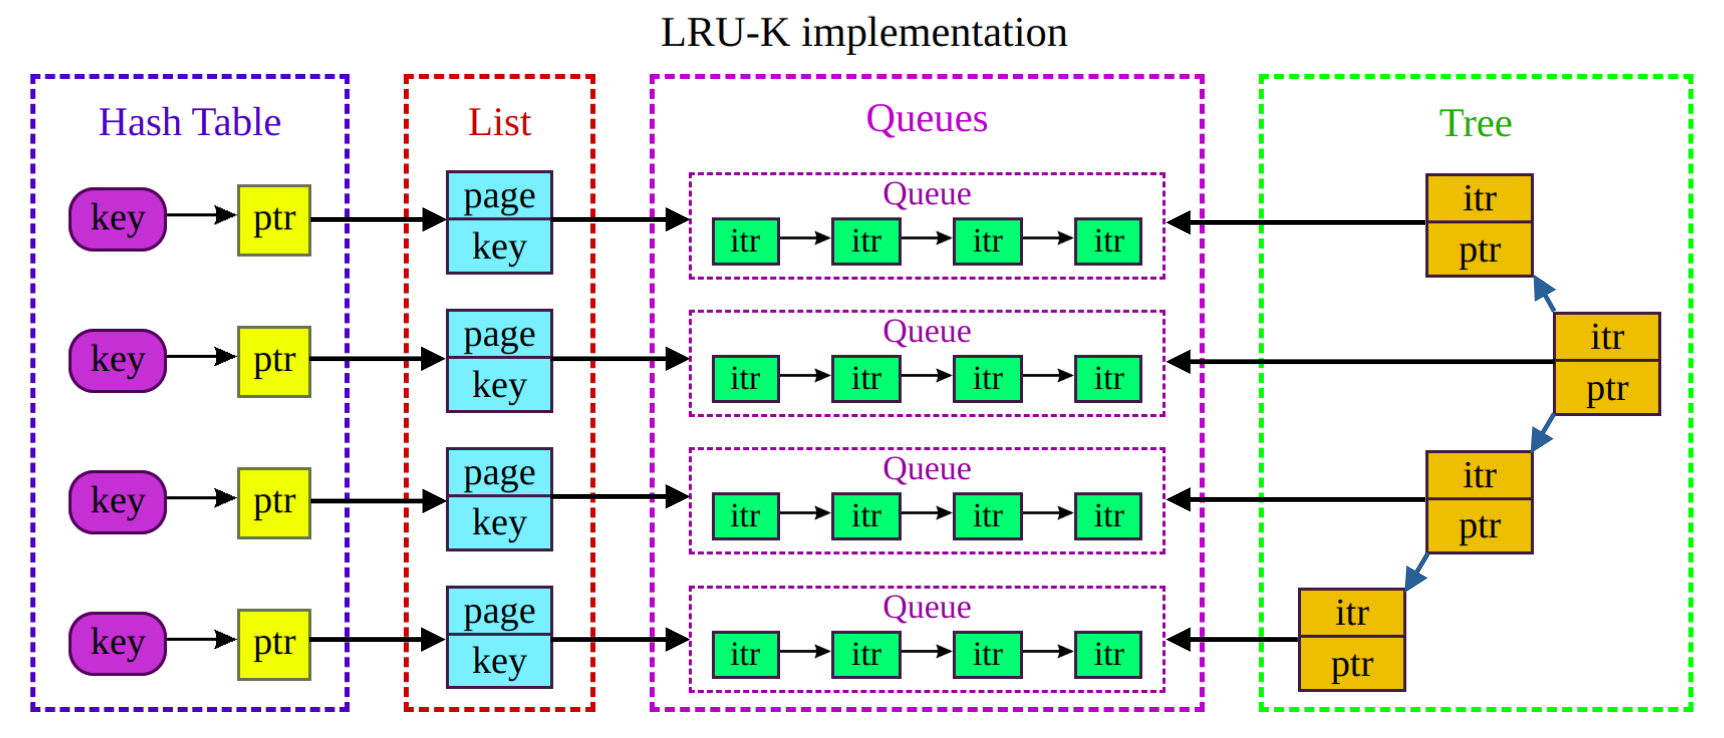
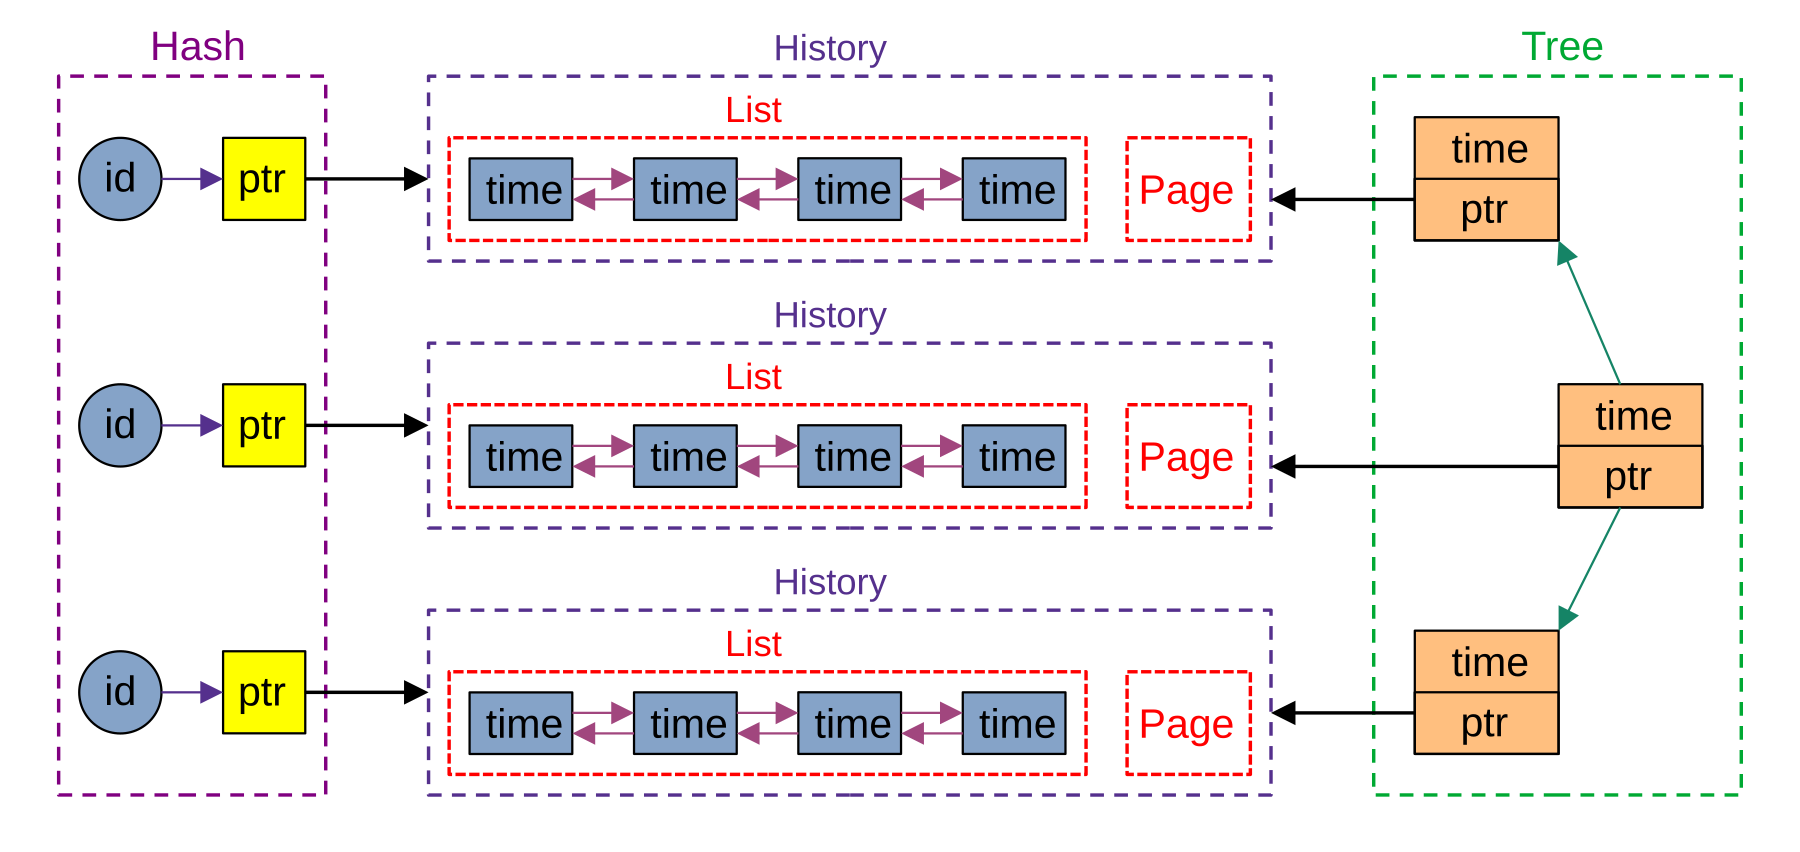
update illustrations

diff --git a/README.md b/README.md
@@ -17,6 +17,10 @@ The figure below shows an example of dependencies inside the cache function in o
 
 ![structure](/documents/Illust.png)
 
+And the cache_version2 has the following structure:
+
+![structure](/documents/Illust3.png)
+
 The [hash table](https://en.wikipedia.org/wiki/Hash_table) is implemented by the chaining method. A [red-black tree](https://en.wikipedia.org/wiki/Red–black_tree) is also used to quickly find the smallest element. Red-black tree is selected because inserts and deletes are needed much more often in this algorithm than searches.
 
 ### Complexity
